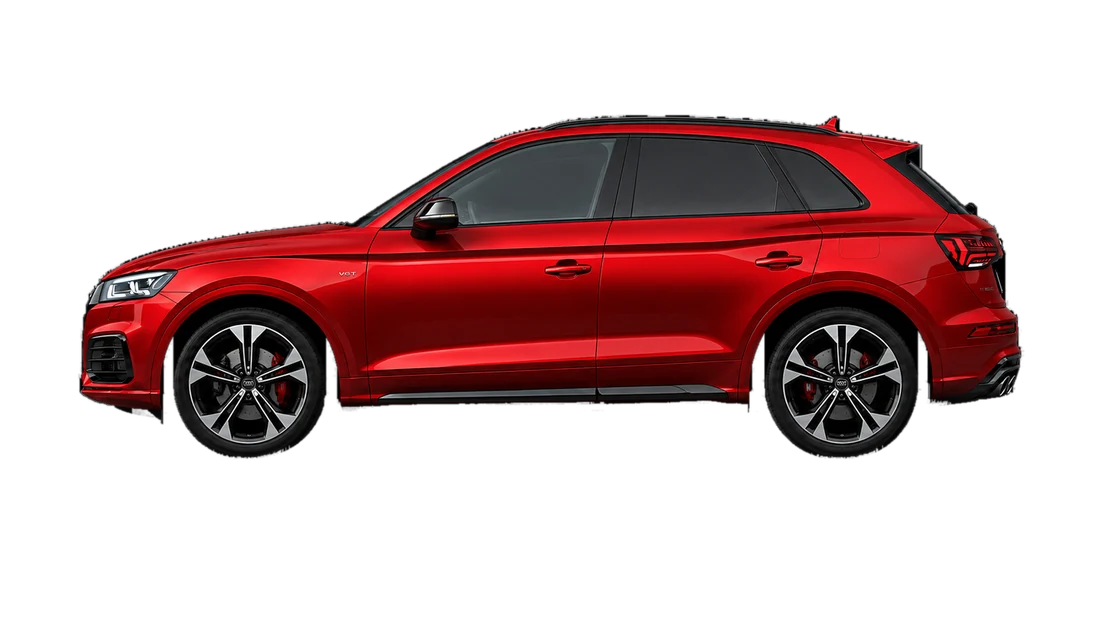
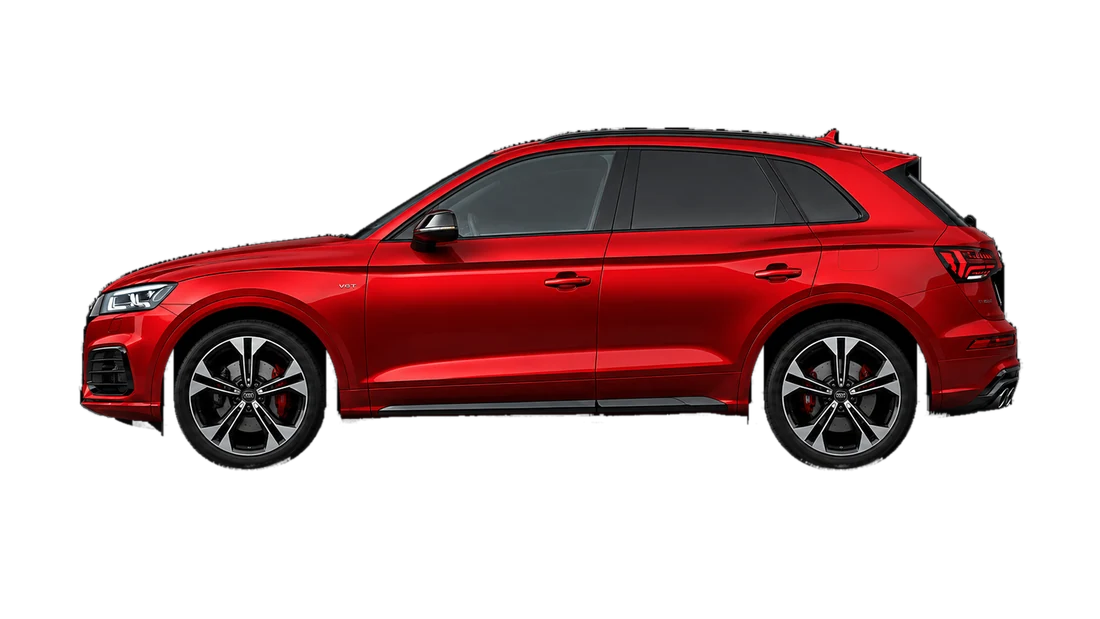
El recorte se alinea por el neumático, no por el borde del alfa
Dos errores encadenados, los dos míos, no de la foto del RS 3.

El primero: el relleno del interior recorría cada columna de punta a
punta. La foto del RS 3 trae una neblina de piso muy tenue —luminancia
14 sobre 255— que igual pasaba el umbral, así que el relleno bajaba
hasta ella y le colgaba al auto unas patas negras bajo cada rueda.
Ahora el relleno se corta en la línea de las ruedas.

El segundo apareció al arreglar el primero: al conservar esa neblina
con su alfa tenue, el borde inferior del alfa dejó de ser el neumático
y pasó a ser el velo. Como la alineación usaba ese borde, el auto
quedaba flotando por encima de la barra de luz.

La solución para los dos es la misma: medir con umbral alto, donde
sólo queda chapa y goma. La neblina no llega ahí. Se usa tanto para
alinear como para medir el largo con el que se calibra la escala.

Los seis apoyan ahora en 74,0% con desvío de ±0,1%, mejor que el ±0,3%
de antes. Medido en pantalla sobre el RS 3: la goma y la barra
coinciden dentro de 1px.

Changed region(s): [[0.0618, 0.1842, 0.9273, 0.7674]]

diff --git a/tools/build-cars.py b/tools/build-cars.py
@@ -74,8 +74,19 @@ def cutout(path):
     ys, xs = np.where(solid)
     if xs.size == 0:
         raise SystemExit(f"no se encontró ningún auto en {path}")
+
+    # El relleno se corta en la línea de las ruedas. Algunas fotos traen
+    # una neblina tenue en el piso —luminancia 14 sobre 255— que igual
+    # supera el umbral, y sin este tope el relleno bajaba hasta ella y
+    # le colgaba al auto unas patas negras debajo de cada neumático.
+    #
+    # La línea se busca con un umbral alto (45) porque a esa altura sólo
+    # queda chapa y goma: la neblina no llega.
+    fuerte = rgb.max(2) > 45
+    ground = np.where(fuerte.sum(1) > 3)[0].max()
+
     for x in range(xs.min(), xs.max() + 1):
-        col = np.where(solid[:, x])[0]
+        col = np.where(solid[:ground + 1, x])[0]
         if col.size > 3:
             alpha[col.min(): col.max() + 1, x] = 1.0
 
@@ -85,6 +96,21 @@ def cutout(path):
 def bounds(alpha, thr=0.25):
     cols = np.where(alpha.max(0) > thr)[0]
     rows = np.where(alpha.max(1) > thr)[0]
+    return cols.min(), cols.max(), rows.min(), rows.max()
+
+
+def chassis(rgb, alpha):
+    """Caja del auto en sí, ignorando la neblina del piso.
+
+    Medir con el alfa no sirve para alinear: algunas fotos traen un velo
+    tenue de suelo que se extiende por debajo de los neumáticos, y si el
+    borde inferior del alfa se toma como línea de apoyo, el auto queda
+    flotando por encima de la barra de luz. Con umbral alto sólo quedan
+    chapa y goma, que es lo que de verdad toca el piso.
+    """
+    fuerte = (rgb.max(2) > 45) & (alpha > 0.5)
+    cols = np.where(fuerte.sum(0) > 2)[0]
+    rows = np.where(fuerte.sum(1) > 2)[0]
     return cols.min(), cols.max(), rows.min(), rows.max()
 
 
@@ -100,7 +126,7 @@ def main():
     cars = {}
     for s in slugs:
         rgb, alpha = cutout(f"{SRC}/{s}.png")
-        x0, x1, _, _ = bounds(alpha)
+        x0, x1, _, _ = chassis(rgb, alpha)
         # px por mm, normalizado al ancho del lienzo de salida
         cars[s] = (rgb, alpha, (x1 - x0) / rgb.shape[1] * CANVAS[0] / REAL[s])
 
@@ -119,10 +145,10 @@ def main():
         scaled = rgba.resize((sw, round(rgba.height * sw / rgba.width)),
                              Image.LANCZOS)
 
-        a = np.asarray(scaled)[..., 3].astype(np.float32) / 255
-        x0, x1, _, y1 = bounds(a, 0.235)
+        sa = np.asarray(scaled).astype(np.float32)
+        x0, x1, _, y1 = chassis(sa[..., :3], sa[..., 3] / 255)
         dx = round(CENTER * W - (x0 + x1) / 2)
-        dy = round(GROUND * H - y1)
+        dy = round(GROUND * H - y1)          # y1 = donde apoya el neumático
 
         canvas = Image.new("RGBA", (W, H), (0, 0, 0, 0))
         canvas.paste(scaled, (dx, dy))
@@ -146,8 +172,8 @@ def main():
     # --- comprobación: todos a escala real y sobre la misma línea ---
     print()
     for s in slugs:
-        a = np.asarray(Image.open(f"{OUT}/{s}.webp").convert("RGBA"))[..., 3]
-        x0, x1, y0, y1 = bounds(a.astype(np.float32) / 255)
+        im = np.asarray(Image.open(f"{OUT}/{s}.webp").convert("RGBA")).astype(np.float32)
+        x0, x1, y0, y1 = chassis(im[..., :3], im[..., 3] / 255)
         dev = ((x1 - x0) / REAL[s] / target - 1) * 100
         print(f"  {s:12} largo {x1-x0:4d}px  alto {y1-y0:4d}px  "
               f"ruedas {y1/H*100:5.1f}%  desvío {dev:+.1f}%")
